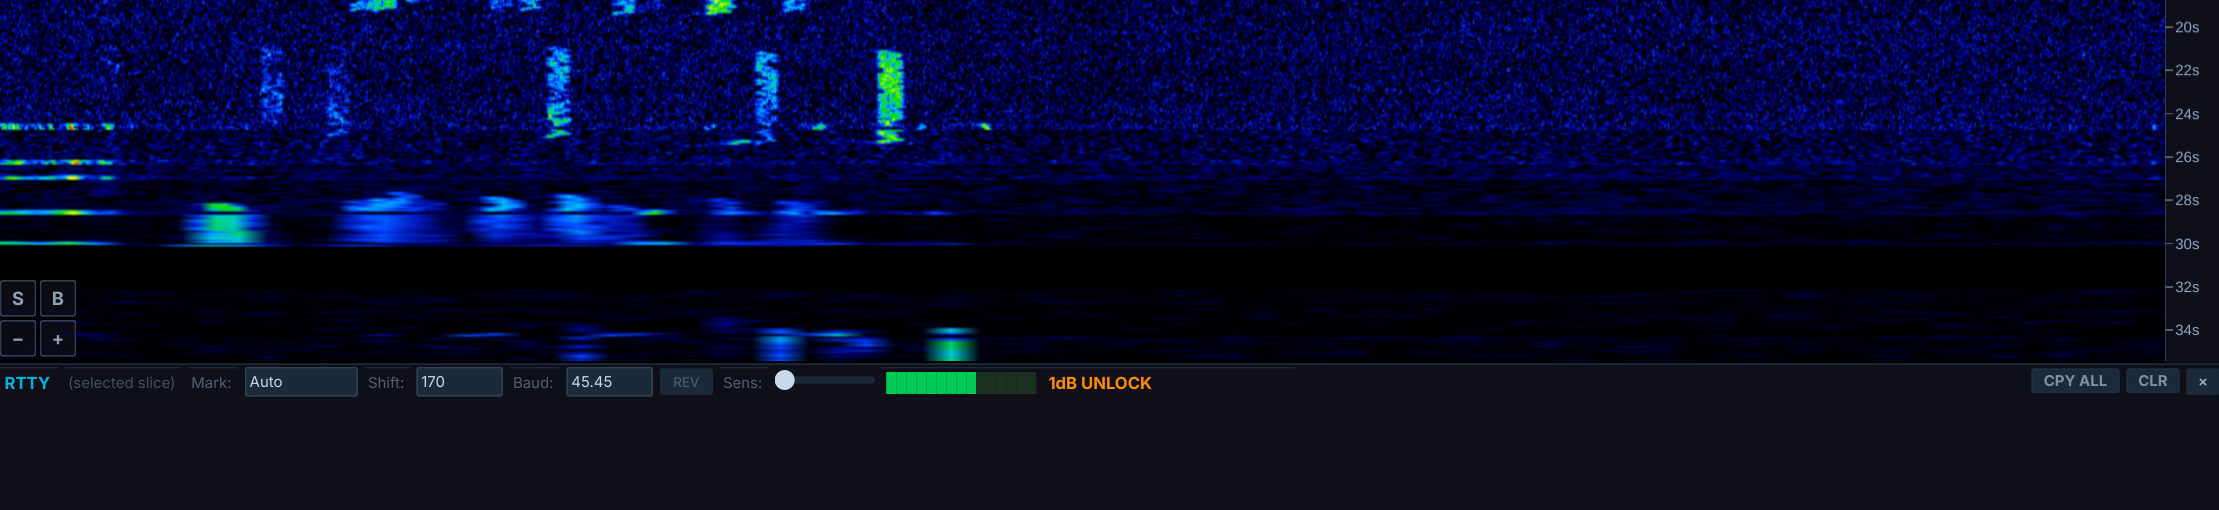
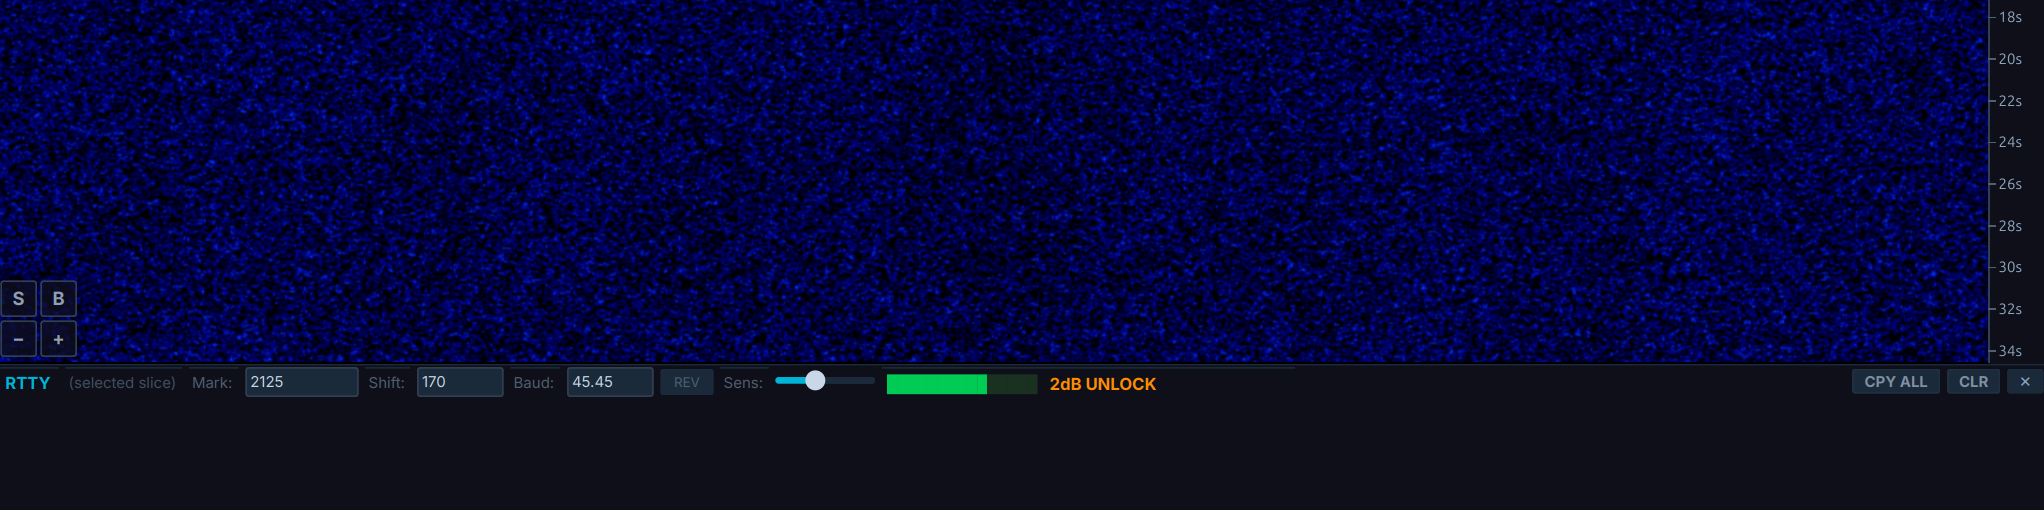
docs(user): re-shoot the RTTY decoder pane screenshot: Mark reads 2125, not Auto. Principle VIII.
Refs #7095. The picture still showed "Mark: Auto", which #7095 removed.
Captured again on a FLEX-8400 (build 90ac277d); alt text updated in
screens.json and on the page. The recipe sets Sens to 38 so the text
area stays empty during its 30 s wait.

diff --git a/docs/user/docs/rtty-operation.md b/docs/user/docs/rtty-operation.md
@@ -72,7 +72,7 @@ When the selected slice is in **RTTY**, a decoder pane opens below the waterfall
 
 The stats bar updates about twice a second with the mark and space levels, the SNR and **LOCKED** / **UNLOCK**. Baud, REV and Sens are remembered. Mark and Shift are not: they are the slice's mark and shift, which the radio holds, and a new slice starts at a 170 Hz shift.
 
-<img src="/img/screens/rtty-decoder-pane.png" width="1331" alt="The bottom of a zoomed panadapter in RTTY mode. Under the waterfall, the decoder pane's control row reads RTTY, (selected slice), Mark: Auto, Shift: 170, Baud: 45.45, a REV button, a Sens slider, a green tuning bar with a lock status, and CPY ALL, CLR and close buttons, above an empty text area." />
+<img src="/img/screens/rtty-decoder-pane.png" width="1226" alt="The bottom of a zoomed panadapter in RTTY mode. Under the waterfall, the decoder pane's control row reads RTTY, (selected slice), Mark: 2125, Shift: 170, Baud: 45.45, a REV button, a Sens slider, a green tuning bar with a lock status, and CPY ALL, CLR and close buttons, above an empty text area." />
 
 *The RTTY decoder pane under the waterfall.*
 
